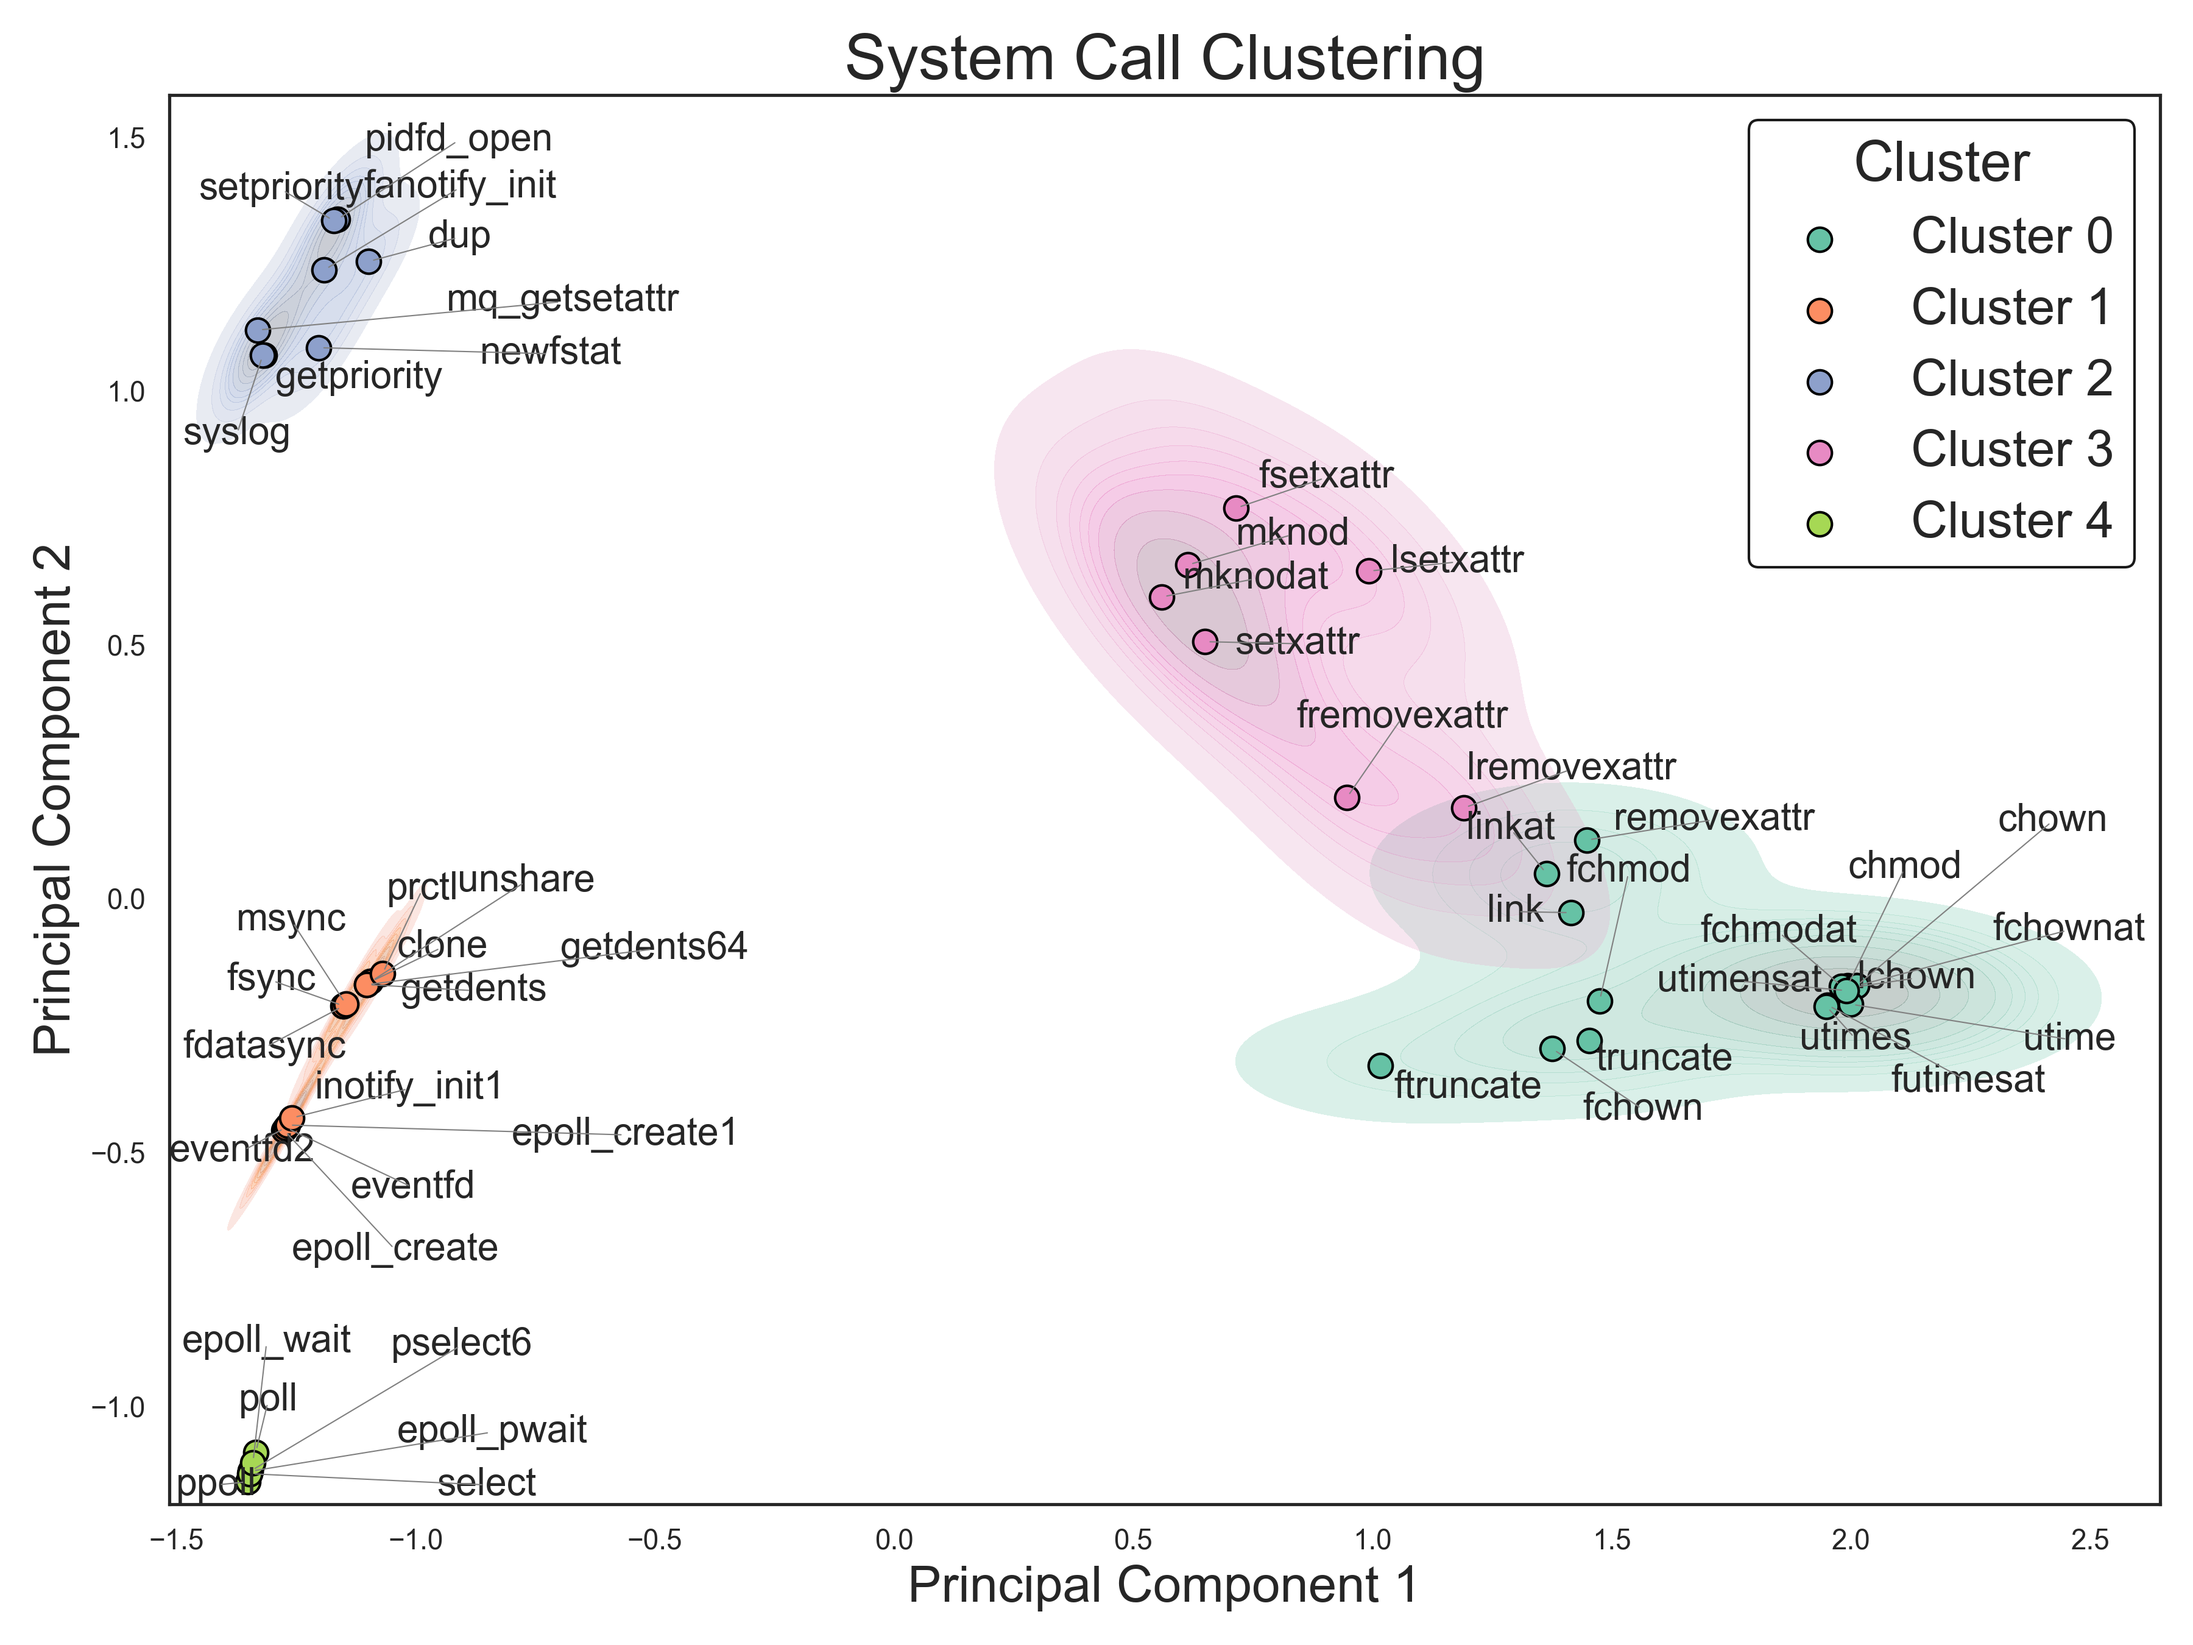
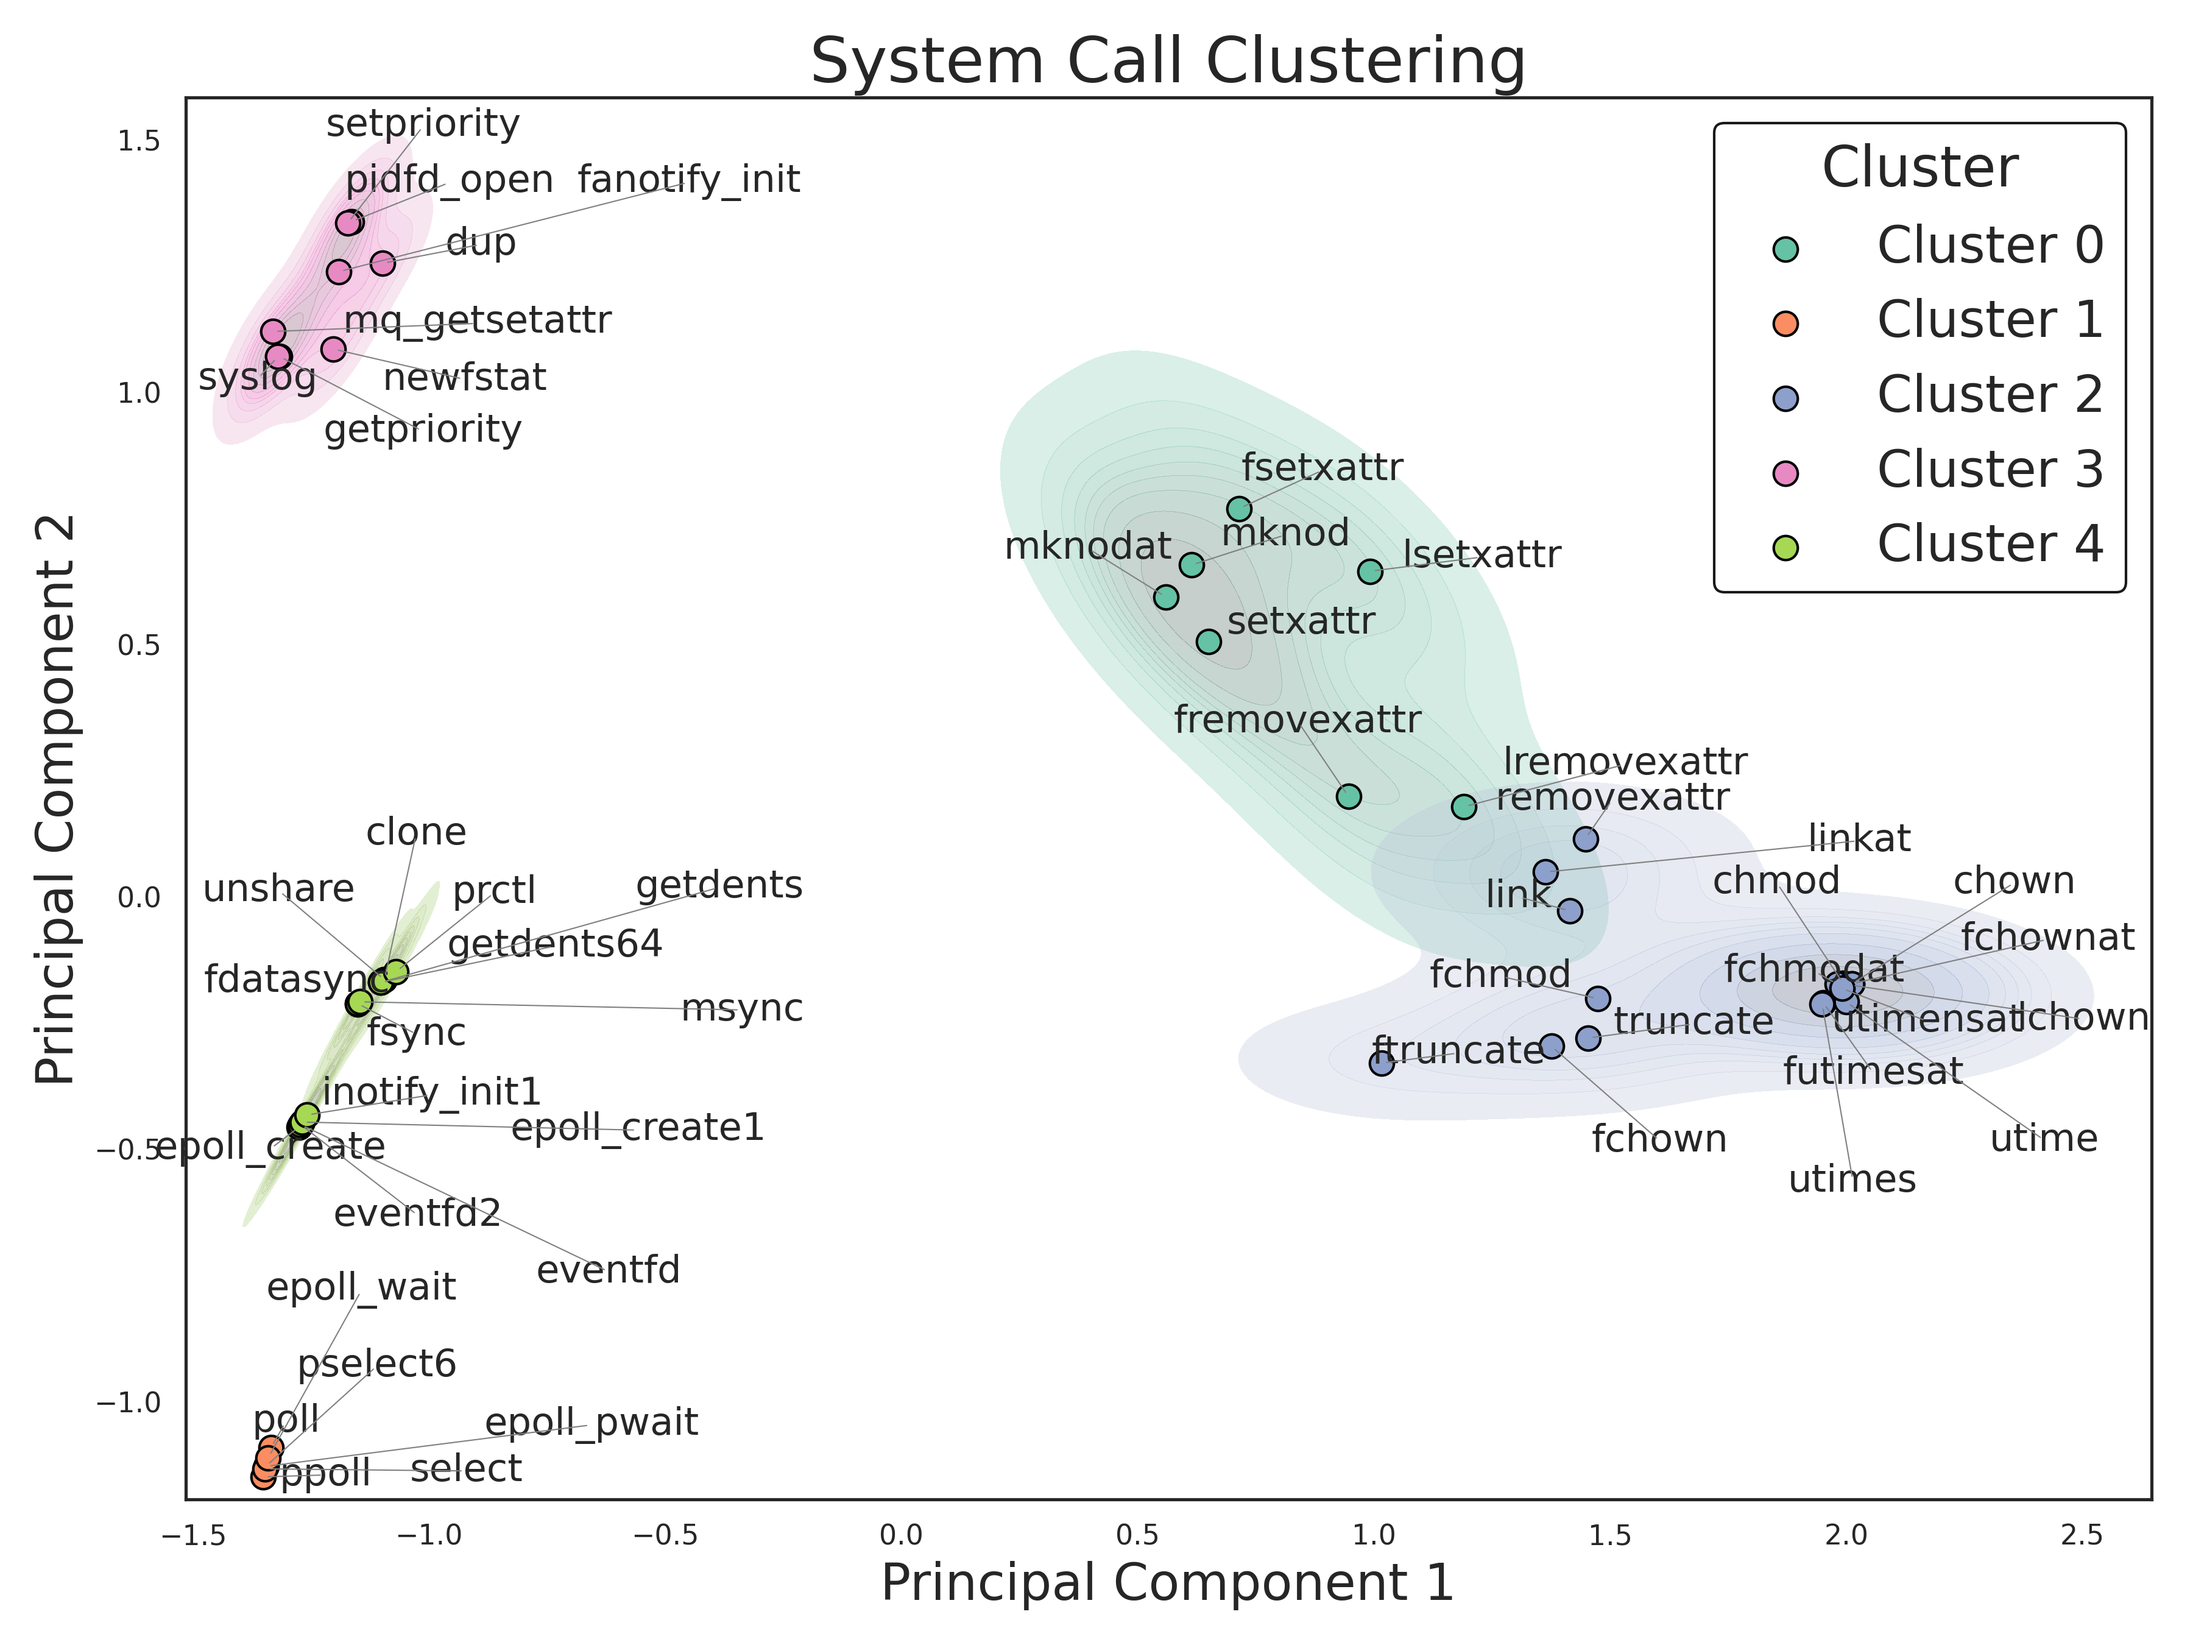
fix evaluation

diff --git a/evaluation/src/fig3_4.py b/evaluation/src/fig3_4.py
@@ -153,14 +153,28 @@ for cid in sorted(plot_df['cluster'].unique()):
     
     cluster_matrix = similarity_matrix.loc[members, members].fillna(0.0)
 
-target_clusters = [3,4]
+marker_syscalls = ['fsetxattr', 'poll'] 
+
+target_cluster_indices = []
+for marker in marker_syscalls:
+    if marker in plot_df['syscall'].values:
+        cluster_id = plot_df.loc[plot_df['syscall'] == marker, 'cluster'].iloc[0]
+        target_cluster_indices.append(cluster_id)
+
+target_cluster_indices = sorted(list(set(target_cluster_indices)))
 
 vmin, vmax = 0.0, 1.0
 
-fig, axes = plt.subplots(1, 2, figsize=(22, 15))
+num_clusters = len(target_cluster_indices)
+fig, axes = plt.subplots(1, num_clusters, figsize=(11 * num_clusters, 15))
+
+if num_clusters == 1:
+    axes = [axes]
+
 cbar_ax = fig.add_axes([0.92, 0.3, 0.015, 0.4])
 
-for i, cid in enumerate(target_clusters):
+# (이전 코드 생략)
+for i, cid in enumerate(target_cluster_indices):
     members = plot_df[plot_df['cluster'] == cid]['syscall'].tolist()
     cluster_matrix = similarity_matrix.loc[members, members].fillna(0.0)
 
@@ -175,8 +189,8 @@ for i, cid in enumerate(target_clusters):
         square=True,
         vmin=vmin,
         vmax=vmax,
-        cbar=(i == len(target_clusters) - 1),
-        cbar_ax=cbar_ax if i == len(target_clusters) - 1 else None,
+        cbar=(i == len(target_cluster_indices) - 1),
+        cbar_ax=cbar_ax if i == len(target_cluster_indices) - 1 else None,
         ax=ax
     )
 

diff --git a/evaluation/src/tbl2/tsp.py b/evaluation/src/tbl2/tsp.py
@@ -75,6 +75,6 @@ def evaluate_tsp():
 
         avg = sum(func_count_by_binary.values()) / len(func_count_by_binary)
         print(f"[+] Avg vulnerable functions per filter: {avg:.2f}")
-=
+
 if __name__ == "__main__":
     evaluate_tsp()
